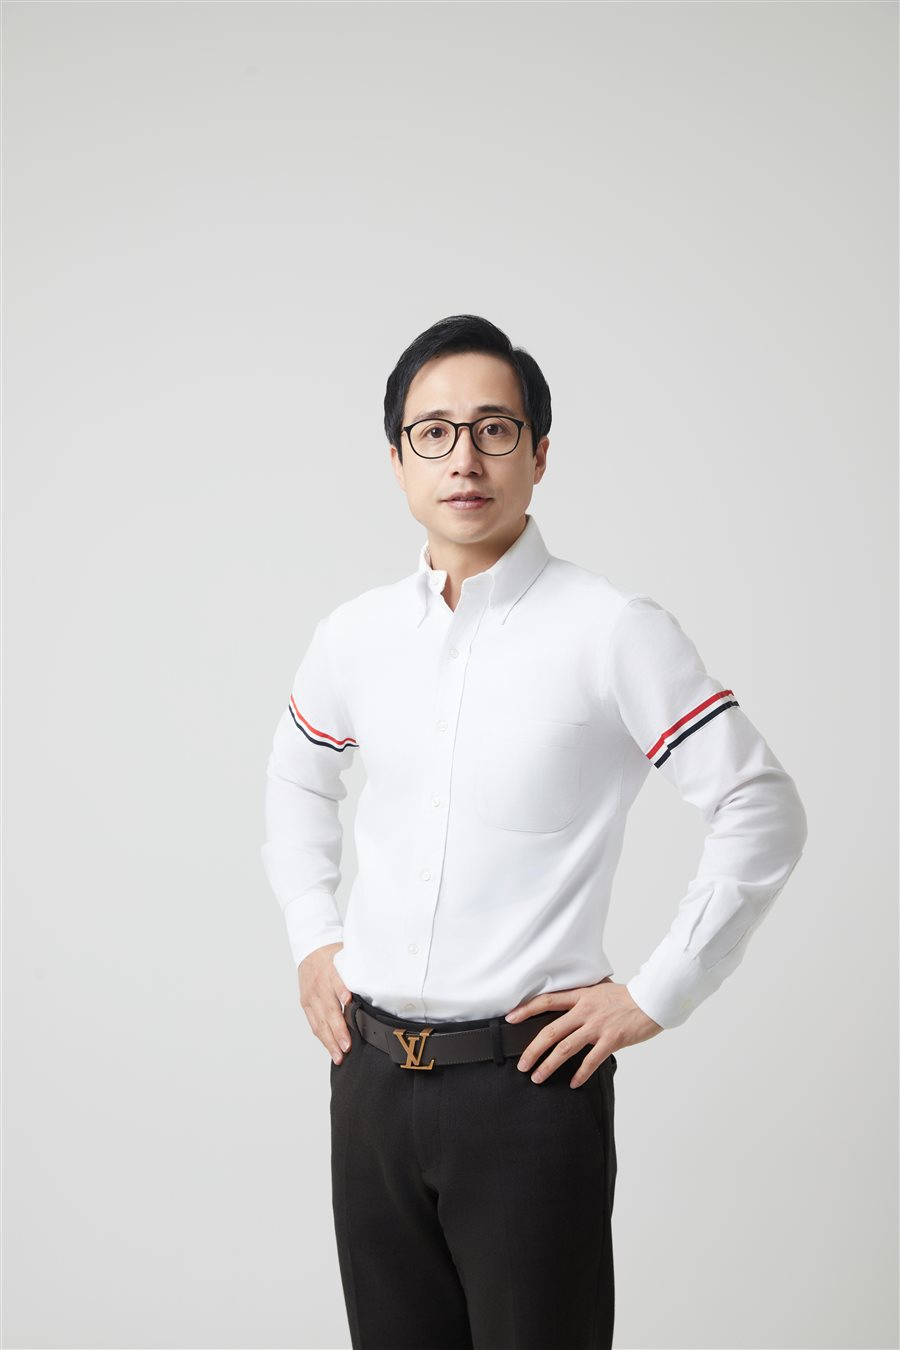
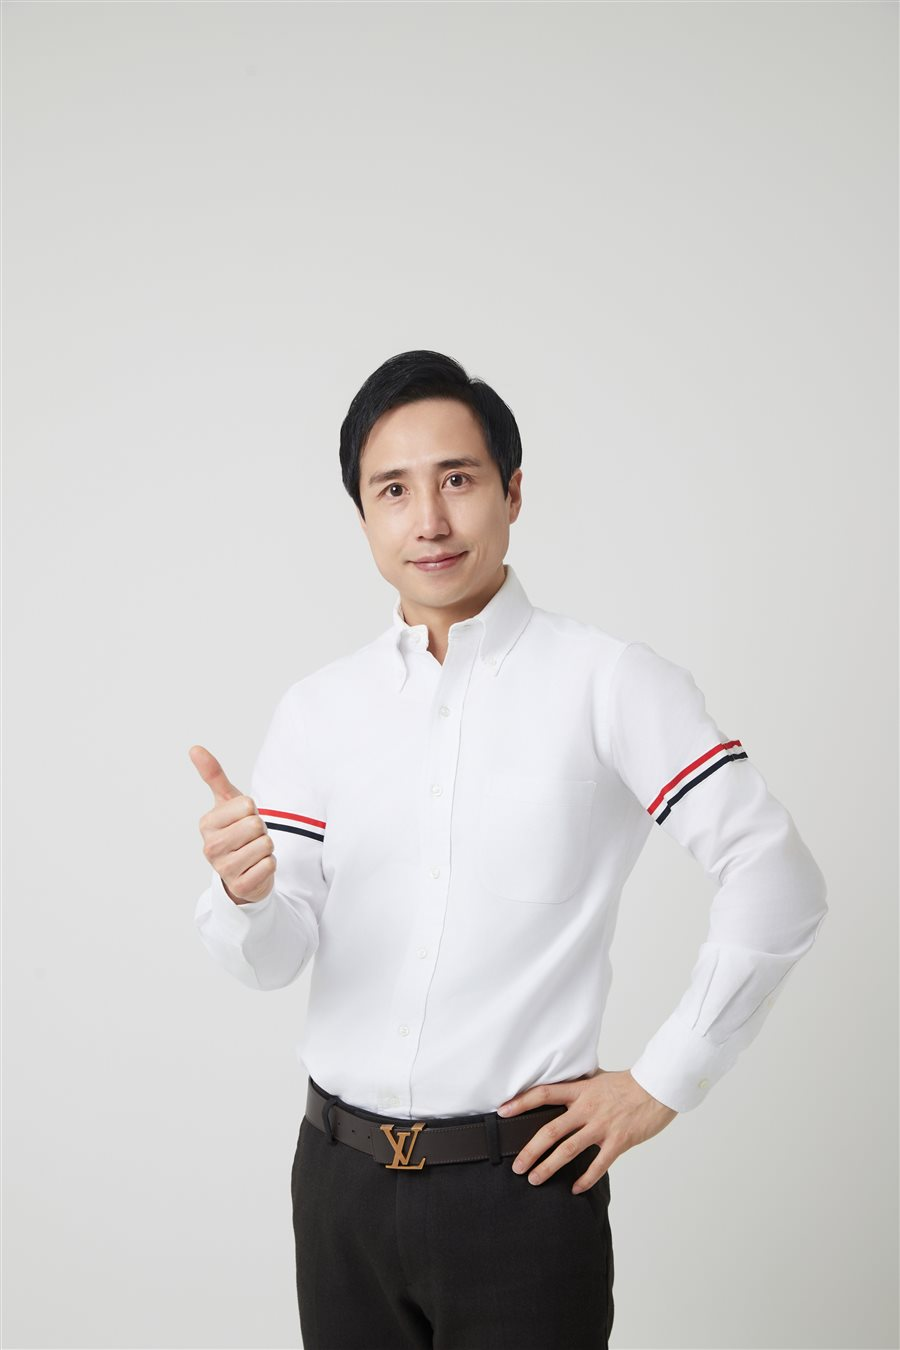
Update demo profile photo and crop position

Changed region(s): [[0.2178, 0.4978, 0.9333, 1.0], [0.3733, 0.2178, 0.6222, 0.4978], [0.6533, 0.9644, 0.6844, 1.0]]

diff --git a/src/components/DemoProfilePhoto.tsx b/src/components/DemoProfilePhoto.tsx
@@ -24,7 +24,7 @@ export function DemoProfilePhoto() {
     <img
       src="/demo/profile.jpg"
       alt="실행연구소 소장 프로필 사진"
-      className="aspect-[3/4] w-full rounded-3xl object-cover object-top"
+      className="aspect-[3/4] w-full rounded-3xl object-cover object-[center_70%]"
       onError={() => setMissing(true)}
     />
   );
